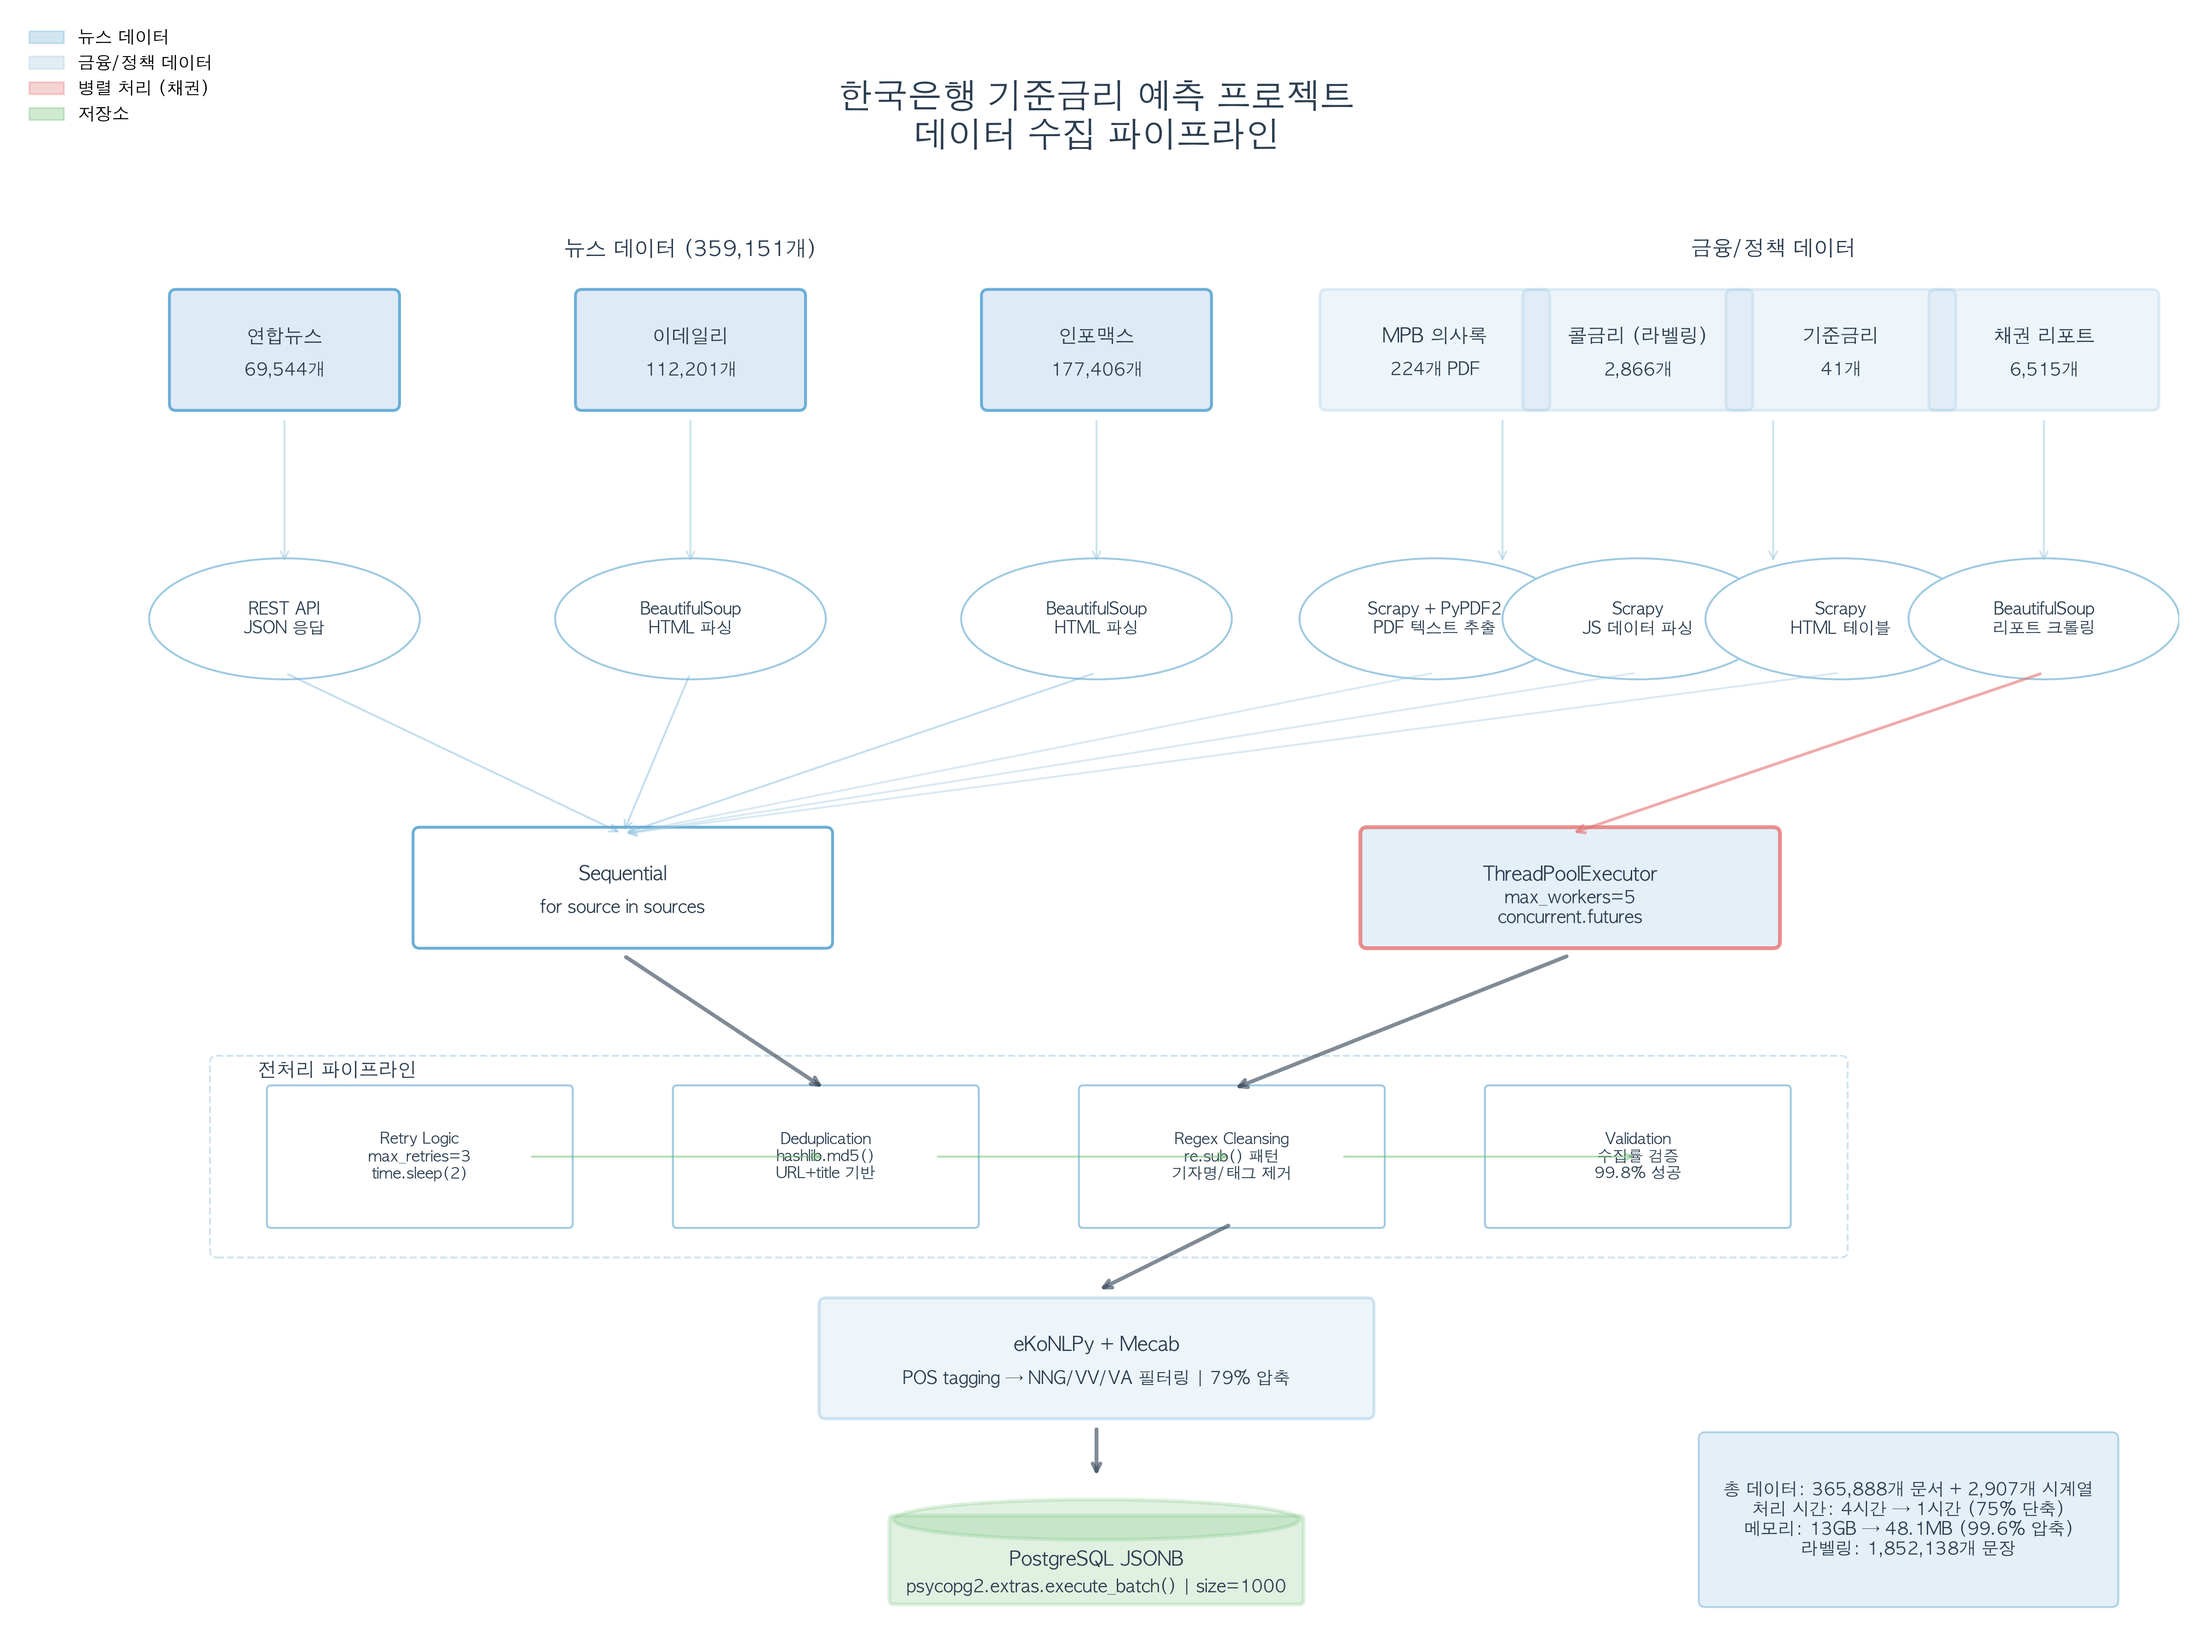
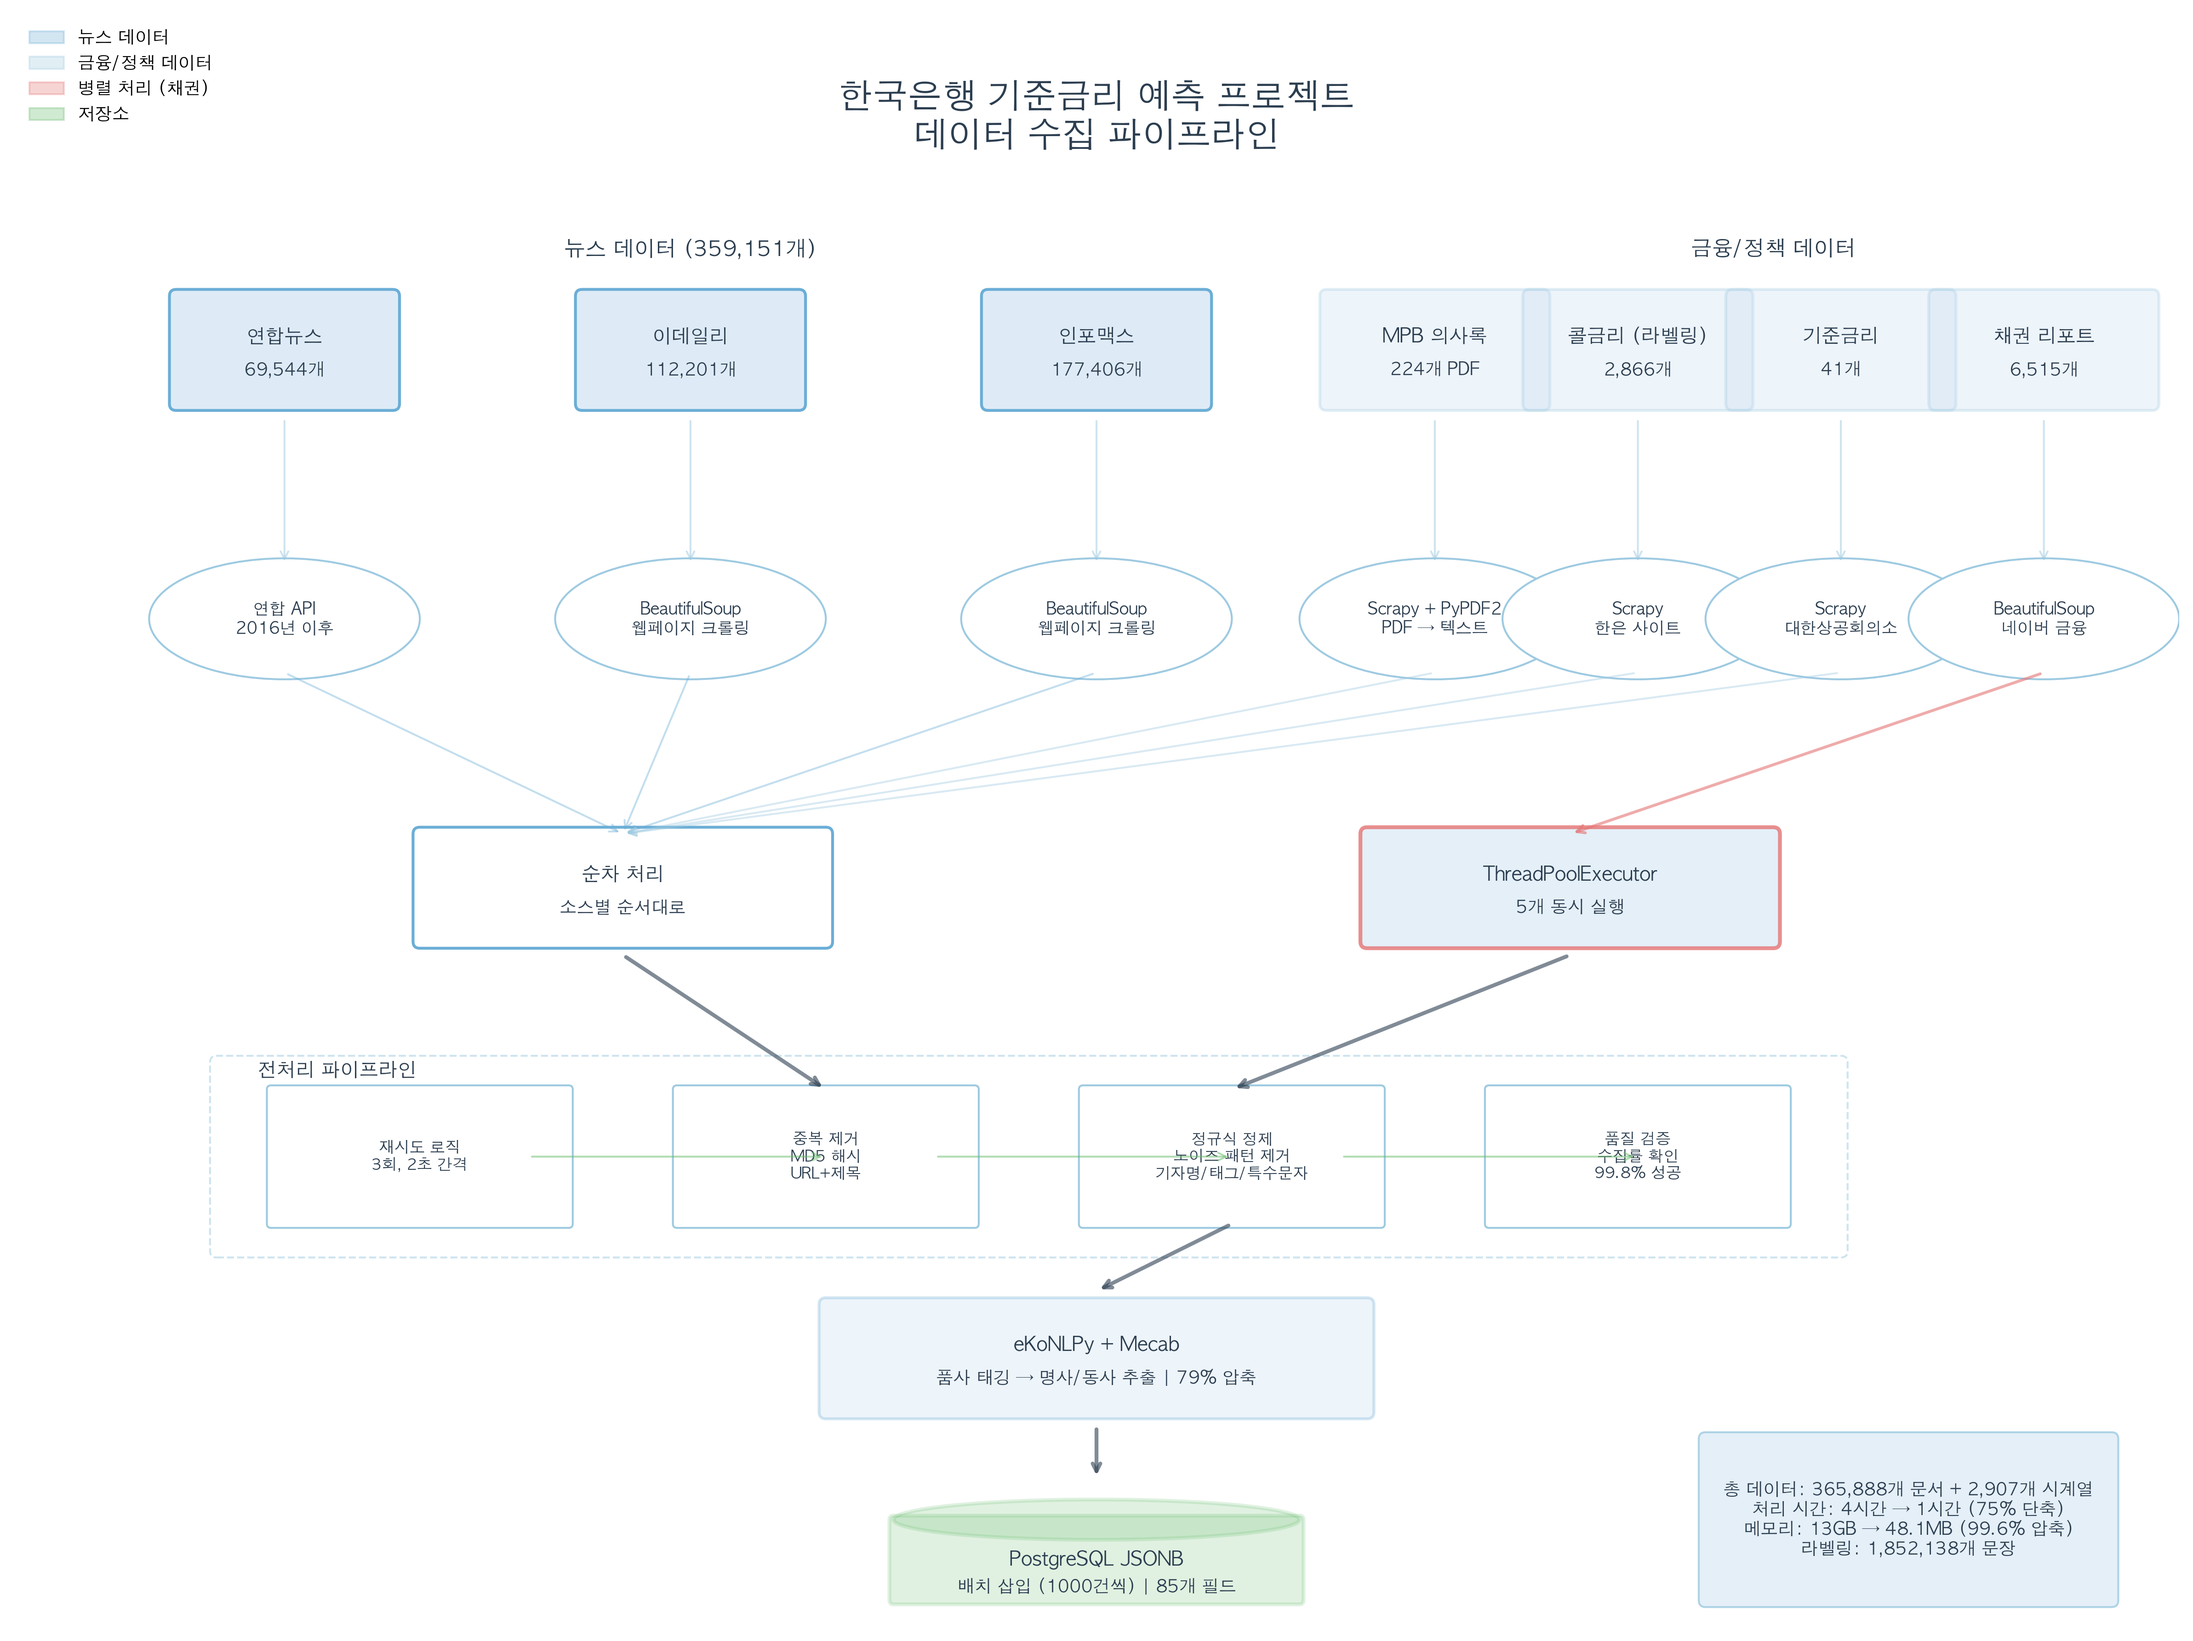
Remove unnecessary code snippets and improve Korean descriptions
- Replaced code snippets with clear Korean descriptions:
  - 'for source in sources' → '소스별 순서대로'
  - 'max_workers=5, concurrent.futures' → '5개 동시 실행'
  - 'max_retries=3, time.sleep(2)' → '3회, 2초 간격'
  - 'hashlib.md5()' → 'MD5 해시'
  - 're.sub() 패턴' → '노이즈 패턴 제거'
  - 'POS tagging → NNG/VV/VA' → '품사 태깅 → 명사/동사 추출'
  - 'psycopg2.execute_batch()' → '배치 삽입 (1000건씩)'
- Made collection methods more descriptive:
  - 'REST API JSON 응답' → '연합 API 2016년 이후'
  - 'JS 데이터 파싱' → '한은 사이트'
  - 'HTML 테이블' → '대한상공회의소'
- Fixed arrow connections for data sources to match actual positions
- Maintained technical library names where appropriate

diff --git a/visualizations/pipeline_diagram_matplotlib.py b/visualizations/pipeline_diagram_matplotlib.py
@@ -92,13 +92,13 @@ def create_pipeline_diagram():
 
     # 수집 방법 박스
     methods = [
-        ('REST API\nJSON 응답', 2),
-        ('BeautifulSoup\nHTML 파싱', 5),
-        ('BeautifulSoup\nHTML 파싱', 8),
-        ('Scrapy + PyPDF2\nPDF 텍스트 추출', 10.5),
-        ('Scrapy\nJS 데이터 파싱', 12),
-        ('Scrapy\nHTML 테이블', 13.5),
-        ('BeautifulSoup\n리포트 크롤링', 15)
+        ('연합 API\n2016년 이후', 2),
+        ('BeautifulSoup\n웹페이지 크롤링', 5),
+        ('BeautifulSoup\n웹페이지 크롤링', 8),
+        ('Scrapy + PyPDF2\nPDF → 텍스트', 10.5),
+        ('Scrapy\n한은 사이트', 12),
+        ('Scrapy\n대한상공회의소', 13.5),
+        ('BeautifulSoup\n네이버 금융', 15)
     ]
 
     for text, x in methods:
@@ -118,9 +118,9 @@ def create_pipeline_diagram():
                              facecolor='white',
                              edgecolor=colors['primary'], linewidth=1.5)
     ax.add_patch(seq_box)
-    ax.text(4.5, y_pool+0.1, 'Sequential', fontsize=10, fontweight='bold',
+    ax.text(4.5, y_pool+0.1, '순차 처리', fontsize=10, fontweight='bold',
             ha='center', va='center', color=colors['text'])
-    ax.text(4.5, y_pool-0.15, 'for source in sources', fontsize=9,
+    ax.text(4.5, y_pool-0.15, '소스별 순서대로', fontsize=9,
             ha='center', va='center', color=colors['text'])
 
     # ThreadPoolExecutor (채권 전용)
@@ -131,17 +131,17 @@ def create_pipeline_diagram():
     ax.add_patch(pool_box)
     ax.text(11.5, y_pool+0.1, 'ThreadPoolExecutor', fontsize=10, fontweight='bold',
             ha='center', va='center', color=colors['text'])
-    ax.text(11.5, y_pool-0.15, 'max_workers=5\nconcurrent.futures', fontsize=9,
+    ax.text(11.5, y_pool-0.15, '5개 동시 실행', fontsize=9,
             ha='center', va='center', color=colors['text'])
 
     # ===== 4. 전처리 파이프라인 레이어 =====
     y_process = 3.5
 
     processes = [
-        ('Retry Logic\nmax_retries=3\ntime.sleep(2)', 3),
-        ('Deduplication\nhashlib.md5()\nURL+title 기반', 6),
-        ('Regex Cleansing\nre.sub() 패턴\n기자명/태그 제거', 9),
-        ('Validation\n수집률 검증\n99.8% 성공', 12)
+        ('재시도 로직\n3회, 2초 간격', 3),
+        ('중복 제거\nMD5 해시\nURL+제목', 6),
+        ('정규식 정제\n노이즈 패턴 제거\n기자명/태그/특수문자', 9),
+        ('품질 검증\n수집률 확인\n99.8% 성공', 12)
     ]
 
     for text, x in processes:
@@ -170,7 +170,7 @@ def create_pipeline_diagram():
     ax.add_patch(token_box)
     ax.text(8, y_token+0.1, 'eKoNLPy + Mecab', fontsize=10, fontweight='bold',
             ha='center', va='center', color=colors['text'])
-    ax.text(8, y_token-0.15, 'POS tagging → NNG/VV/VA 필터링 | 79% 압축', fontsize=9,
+    ax.text(8, y_token-0.15, '품사 태깅 → 명사/동사 추출 | 79% 압축', fontsize=9,
             ha='center', va='center', color=colors['text'])
 
     # ===== 6. 저장 레이어 =====
@@ -188,7 +188,7 @@ def create_pipeline_diagram():
     ax.add_patch(db_ellipse)
     ax.text(8, y_db, 'PostgreSQL JSONB', fontsize=10, fontweight='bold',
             ha='center', va='center', color=colors['text'])
-    ax.text(8, y_db-0.2, 'psycopg2.extras.execute_batch() | size=1000', fontsize=9,
+    ax.text(8, y_db-0.2, '배치 삽입 (1000건씩) | 85개 필드', fontsize=9,
             ha='center', va='center', color=colors['text'])
 
     # ===== 화살표 연결 =====
@@ -202,8 +202,9 @@ def create_pipeline_diagram():
     ax.annotate('', xy=(8, y_method+0.4), xytext=(8, y_source-0.5), arrowprops=arrow_props)
 
     # 기타 소스 연결
-    ax.annotate('', xy=(11, y_method+0.4), xytext=(11, y_source-0.5), arrowprops=arrow_props)
-    ax.annotate('', xy=(13, y_method+0.4), xytext=(13, y_source-0.5), arrowprops=arrow_props)
+    ax.annotate('', xy=(10.5, y_method+0.4), xytext=(10.5, y_source-0.5), arrowprops=arrow_props)
+    ax.annotate('', xy=(12, y_method+0.4), xytext=(12, y_source-0.5), arrowprops=arrow_props)
+    ax.annotate('', xy=(13.5, y_method+0.4), xytext=(13.5, y_source-0.5), arrowprops=arrow_props)
     ax.annotate('', xy=(15, y_method+0.4), xytext=(15, y_source-0.5), arrowprops=arrow_props)
 
     # 뉴스 수집방법 → 순차 처리
